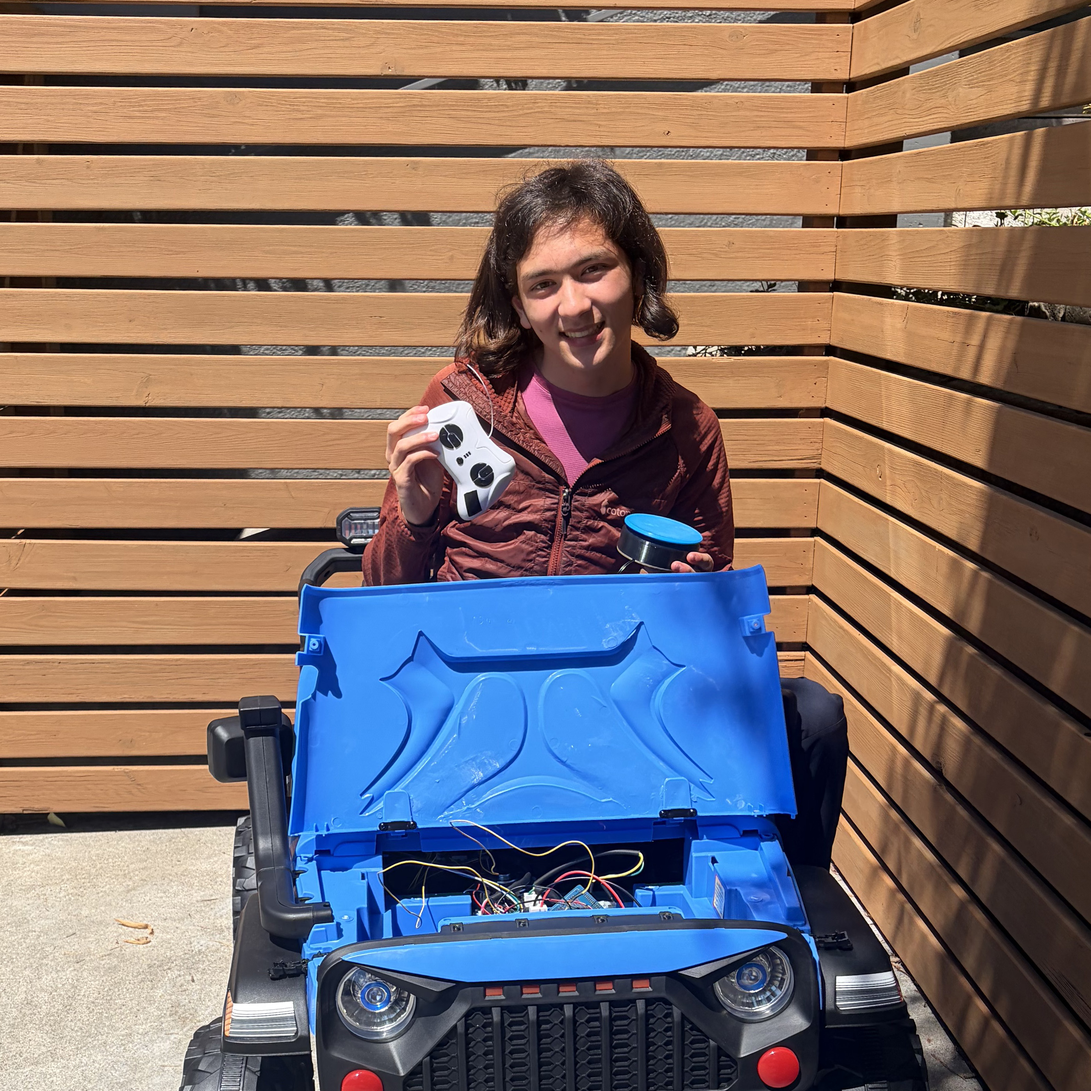
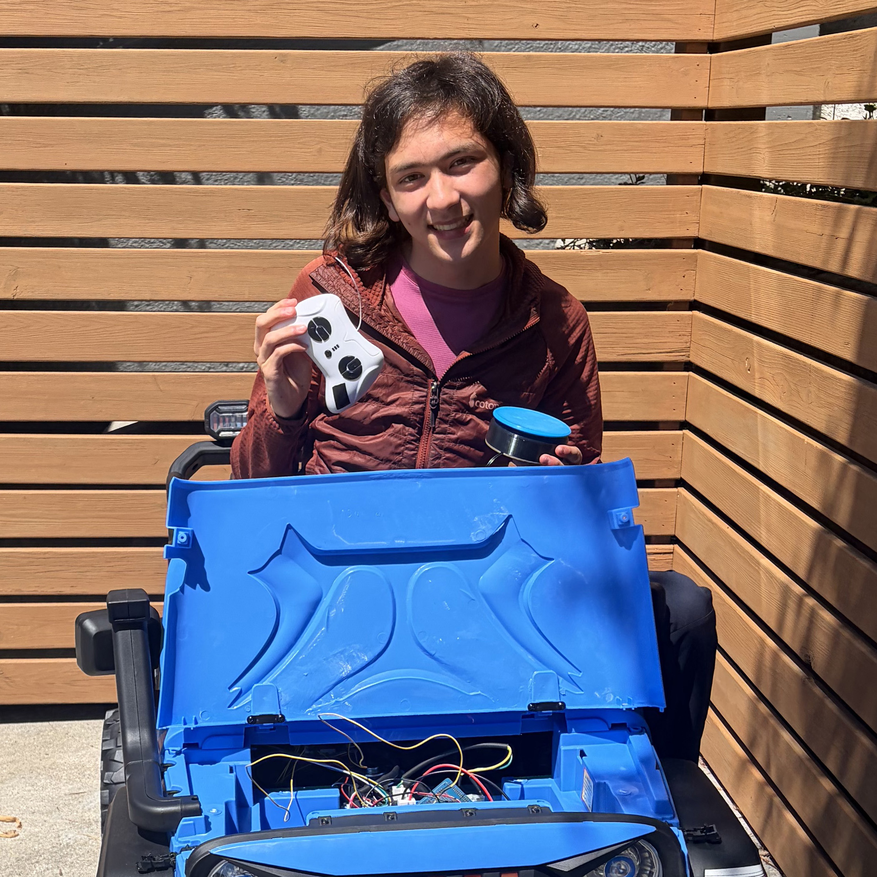
Add CLAUDE.md guidance and update Emory.jpg
Add CLAUDE.md: guidance for Claude Code (claude.ai/code) and contributors covering project purpose, dev commands (bun, vite, vitest, playwright), architecture (routing, pages, project data), styling/theme, forms, and notes about tooling and TypeScript settings. Also replace/update the team asset src/assets/team/Emory.jpg.

diff --git a/CLAUDE.md b/CLAUDE.md
@@ -1,0 +1,47 @@
+# CLAUDE.md
+
+This file provides guidance to Claude Code (claude.ai/code) when working with code in this repository.
+
+## What this is
+
+Marketing/portfolio site for the Adaptive Tech Club — high schoolers who modify toys and build custom devices (cars, switches) for kids with disabilities. It's a static React SPA: no backend, no database. All project content lives in source; forms post to external Google Forms.
+
+## Commands
+
+```bash
+bun install          # bun is the package manager (bun.lock is committed; package-lock.json also exists)
+bun run dev          # Vite dev server on http://localhost:8080
+bun run build        # production build (build:dev for development-mode build)
+bun run lint         # eslint
+bun run test         # vitest run (one-shot)
+bun run test:watch   # vitest watch
+bunx vitest run src/test/example.test.ts   # run a single test file
+```
+
+Playwright is configured (`playwright.config.ts`, `playwright-fixture.ts`) but only as thin re-exports of `lovable-agent-playwright-config`; there are no committed e2e specs. Unit tests are vitest + Testing Library (jsdom), discovered as `src/**/*.{test,spec}.{ts,tsx}`.
+
+## Architecture
+
+- **Routing** is in `src/App.tsx` via react-router (`BrowserRouter`). `AppContent` scrolls to top on every navigation. `vercel.json` rewrites all paths to `index.html` so deep links work on Vercel.
+- **Pages** (`src/pages/`) map 1:1 to routes: Index, About, WhyItMatters, Projects, ProjectDetail, Contact, ToyRequest, NotFound. Each page wraps its content in `<Layout>` (`Navbar` + `main` + `Footer`) itself — Layout is not applied centrally in the router.
+- **Project content is data, not pages.** `src/data/projects.ts` exports a typed `Project[]` (the `Project` interface defines `features`, `materials`, `steps`, `image` cover, `photos` grid, `category`, `hasDocumentation`, `inProgress`). The Projects page lists them; `ProjectDetail` renders one by looking up `projects.find(p => p.id === id)`. To add/edit a project, edit this array and drop images under `public/project-images/<slug>/`.
+  - **Gotcha:** `project.id` is the human-readable title with spaces (e.g. `"Mini Powered Chair"`), and it's used directly as the `/projects/:id` route param. IDs must stay unique and URL-safe-enough; React Router handles the encoding, but keep this in mind when linking.
+- **UI components** (`src/components/ui/`) are shadcn/ui (Radix + class-variance-authority). Config in `components.json`; add new ones with the shadcn CLI. Import via the `@/` alias (→ `src/`).
+
+## Styling & theming
+
+- Tailwind with CSS-variable-based design tokens defined in `src/index.css`; colors are referenced as `hsl(var(--…))` in `tailwind.config.ts`. Fonts: `font-display` = Nunito, `font-body` = Inter.
+- **Dark mode is automatic**, driven by the OS `prefers-color-scheme` (the effect in `App.tsx` toggles the `dark` class on `<html>`). There is no manual theme toggle; test both modes via your system setting.
+
+## Forms
+
+Both forms submit to **Google Forms**, not an API in this repo:
+- `Contact.tsx` POSTs `FormData` (with `entry.<id>` field names) to a Google Forms `formResponse` URL using `mode: "no-cors"` — the response is opaque, so success is assumed and a toast is shown regardless.
+- `ToyRequest.tsx` embeds a Google Form via iframe.
+
+If form fields change, the `entry.<id>` keys must match the live Google Form.
+
+## Notes
+
+- This project was scaffolded with Lovable (`lovable-tagger` Vite plugin runs only in dev mode). Deployed on Vercel; `@vercel/analytics` is wired in.
+- TypeScript is configured loosely (`strictNullChecks: false`, `noImplicitAny: false`, unused-vars off in both tsconfig and eslint) — don't expect the compiler to catch null/undefined issues.
